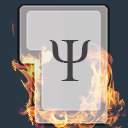
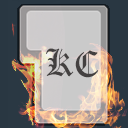
rename...

Changed region(s): [[0.3438, 0.3125, 0.7812, 0.6562]]

diff --git a/src/extension.ts b/src/extension.ts
@@ -4,22 +4,22 @@ import * as vscode from "vscode";
 import * as path from "path";
 import * as fs from "fs";
 
-class QmkMapperConfiguration {
+class KeymapCEditorConfiguration {
     public static getCurrentConfig() {
-        return new QmkMapperConfiguration();
+        return new KeymapCEditorConfiguration();
     }
 
     public readonly _previewUrlPrefix: string;
 
     private constructor() {
-        const configRoot = vscode.workspace.getConfiguration("qmkmapper");
+        const configRoot = vscode.workspace.getConfiguration("keymapceditor");
         this._previewUrlPrefix = configRoot.get<string>("_previewUrlPrefix", "");
     }
 }
 
 export function activate(context: vscode.ExtensionContext) {
-    let previewUri = vscode.Uri.parse("qmkmapper-vsc://preview");
-    let config = QmkMapperConfiguration.getCurrentConfig();
+    let previewUri = vscode.Uri.parse("keymapceditor-vsc://preview");
+    let config = KeymapCEditorConfiguration.getCurrentConfig();
     let avoidResendCycleKeymapText = "";
     let throttleTimeout: NodeJS.Timer = null;
 
@@ -53,10 +53,10 @@ export function activate(context: vscode.ExtensionContext) {
 
         public provideTextDocumentContent(): string | Thenable<string> {
             return new Promise(resolve => {
-                let indexFile = context.asAbsolutePath("out/qmkmapper/index.html");
+                let indexFile = context.asAbsolutePath("out/keymapceditor/index.html");
                 let urlPrefix =
                     vscode.Uri
-                        .file(context.asAbsolutePath(path.join("out", "qmkmapper")))
+                        .file(context.asAbsolutePath(path.join("out", "keymapceditor")))
                         .toString() + "/";
 
                 if (config._previewUrlPrefix) {
@@ -104,7 +104,7 @@ export function activate(context: vscode.ExtensionContext) {
 
     // Recieved messages
     context.subscriptions.push(
-        vscode.commands.registerCommand("_qmkmapper.logging", (payload: any) => {
+        vscode.commands.registerCommand("_keymapceditor.logging", (payload: any) => {
             if ("development" === process.env.NODE_ENV) {
                 console.log("preview log: ", payload);
             }
@@ -112,7 +112,7 @@ export function activate(context: vscode.ExtensionContext) {
     );
     context.subscriptions.push(
         vscode.commands.registerCommand(
-            "_qmkmapper.connectedPreview",
+            "_keymapceditor.connectedPreview",
             (payload: { uri: string }) => {
                 vscode.workspace.openTextDocument(vscode.Uri.parse(payload.uri)).then(f => {
                     sendKeymapToPreview(f, true);
@@ -122,7 +122,7 @@ export function activate(context: vscode.ExtensionContext) {
     );
     context.subscriptions.push(
         vscode.commands.registerCommand(
-            "_qmkmapper.keymapFromPreview",
+            "_keymapceditor.keymapFromPreview",
             (payload: { uri: string; keymap: string }) => {
                 avoidResendCycleKeymapText = payload.keymap;
                 let uri = vscode.Uri.parse(payload.uri);
@@ -141,7 +141,7 @@ export function activate(context: vscode.ExtensionContext) {
         )
     );
     context.subscriptions.push(
-        vscode.commands.registerCommand("_qmkmapper.save", (payload: { uri: string }) => {
+        vscode.commands.registerCommand("_keymapceditor.save", (payload: { uri: string }) => {
             let uri = vscode.Uri.parse(payload.uri);
             vscode.workspace.openTextDocument(uri).then(doc => {
                 doc.save();
@@ -161,18 +161,18 @@ export function activate(context: vscode.ExtensionContext) {
 
     // Opens the preview
     context.subscriptions.push(
-        vscode.commands.registerCommand("qmkmapper.showQmkMapperKeymapPreview", () => {
+        vscode.commands.registerCommand("keymapceditor.showKeymapCEditor", () => {
             if (!vscode.window.activeTextEditor) {
                 // TODO: Throw error that active editor must be keymap.c?
                 return;
             }
             if (provider !== null) {
-                // TODO: Throw error that there is already qmkmapper there
+                // TODO: Throw error that there is already keymapceditor there
                 return;
             }
             provider = new TextDocumentContentProvider(vscode.window.activeTextEditor.document.uri);
             context.subscriptions.push(
-                vscode.workspace.registerTextDocumentContentProvider("qmkmapper-vsc", provider)
+                vscode.workspace.registerTextDocumentContentProvider("keymapceditor-vsc", provider)
             );
 
             return vscode.commands
@@ -180,7 +180,7 @@ export function activate(context: vscode.ExtensionContext) {
                     "vscode.previewHtml",
                     previewUri,
                     vscode.ViewColumn.Two,
-                    "QMKMapper keymap.c preview",
+                    "KeymapCEditor keymap.c editor",
                     { allowScripts: true, allowSvgs: true }
                 )
                 .then(

diff --git a/README.md b/README.md
@@ -1,7 +1,7 @@
-# QMKMapper VSCode Extension
+# KeymapCEditor VSCode Extension
 
 Allows to preview and edit [QMK Firmaware](https://github.com/qmk/qmk_firmware) keymap.c files from VSCode.
 
-This is very much work in progress. Most of the code can be found from the [QMKMapper](https://github.com/Ciantic/qmkmapper) repository, this repository contains only the VSCode extension.
+This is very much work in progress. Most of the code can be found from the [KeymapCEditor](https://github.com/Ciantic/keymapceditor) repository, this repository contains only the VSCode extension.
 
-![Screenshot of the QMKMapper in action](https://raw.githubusercontent.com/Ciantic/qmkmapper-vsc/master/images/preview.png "Screenshot of the extension within VSCode")
+![Screenshot of the KeymapCEditor in action](https://raw.githubusercontent.com/Ciantic/keymapceditor-vsc/master/images/preview.png "Screenshot of the extension within VSCode")
